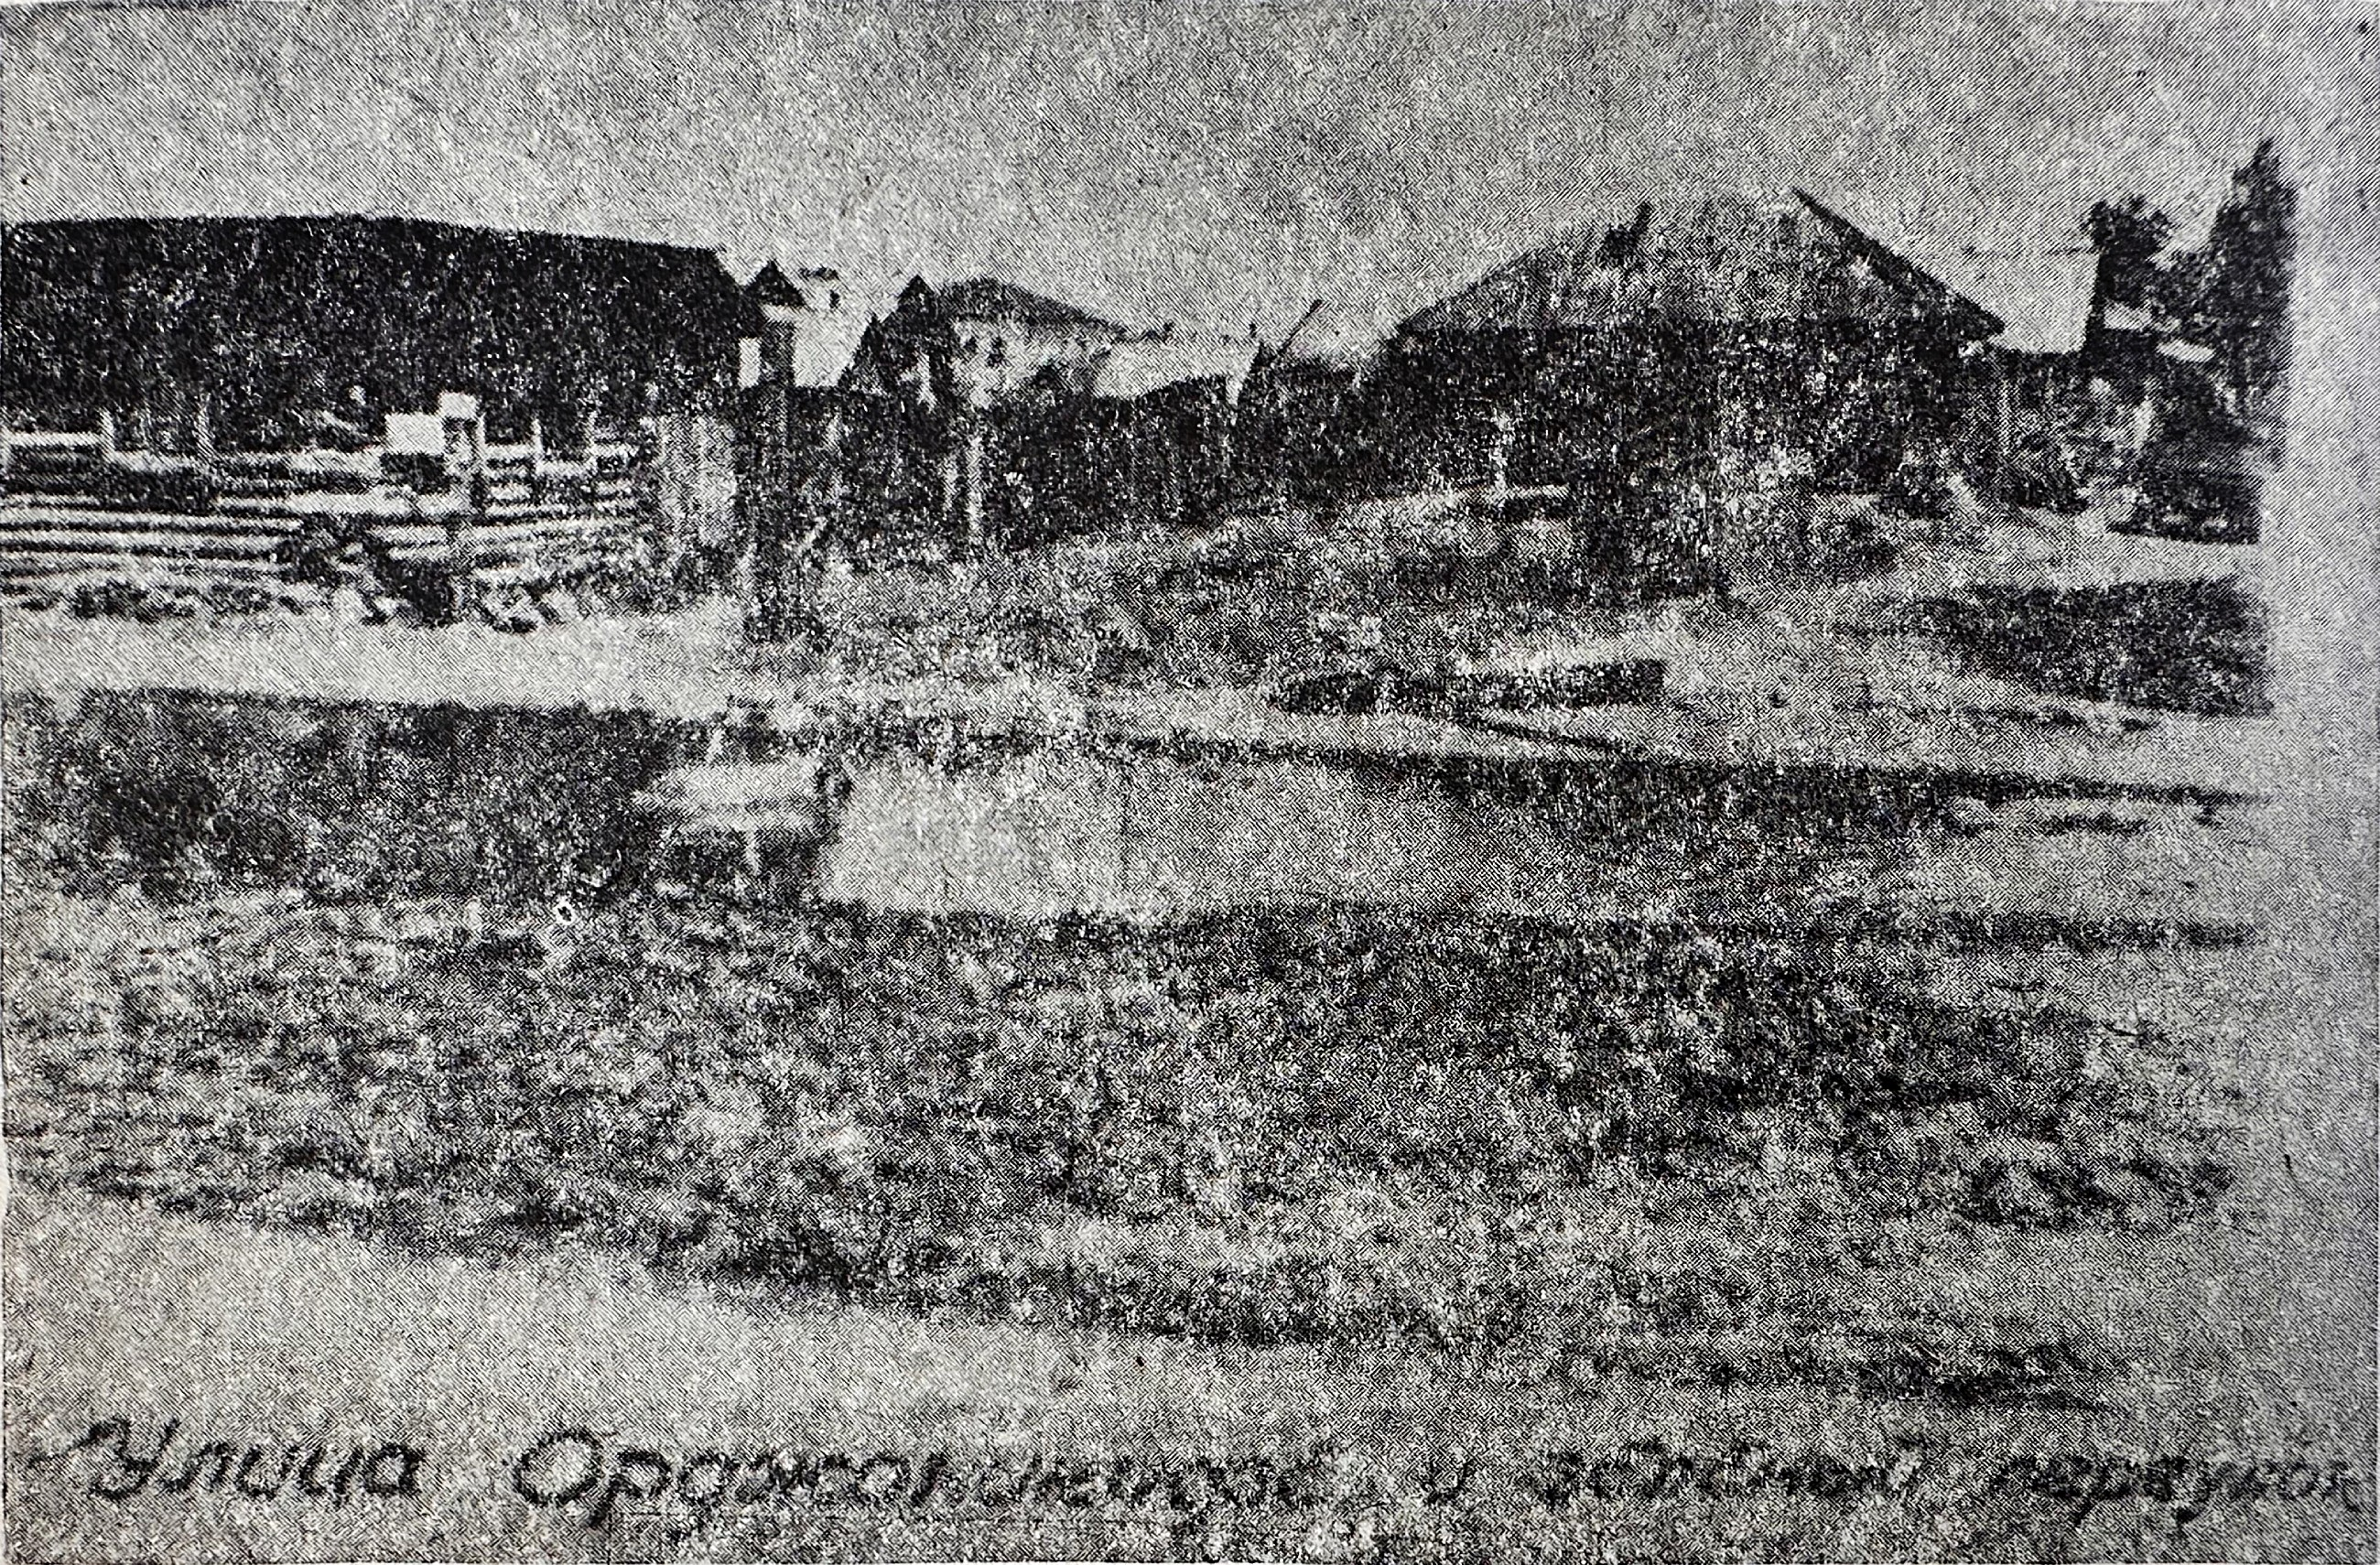
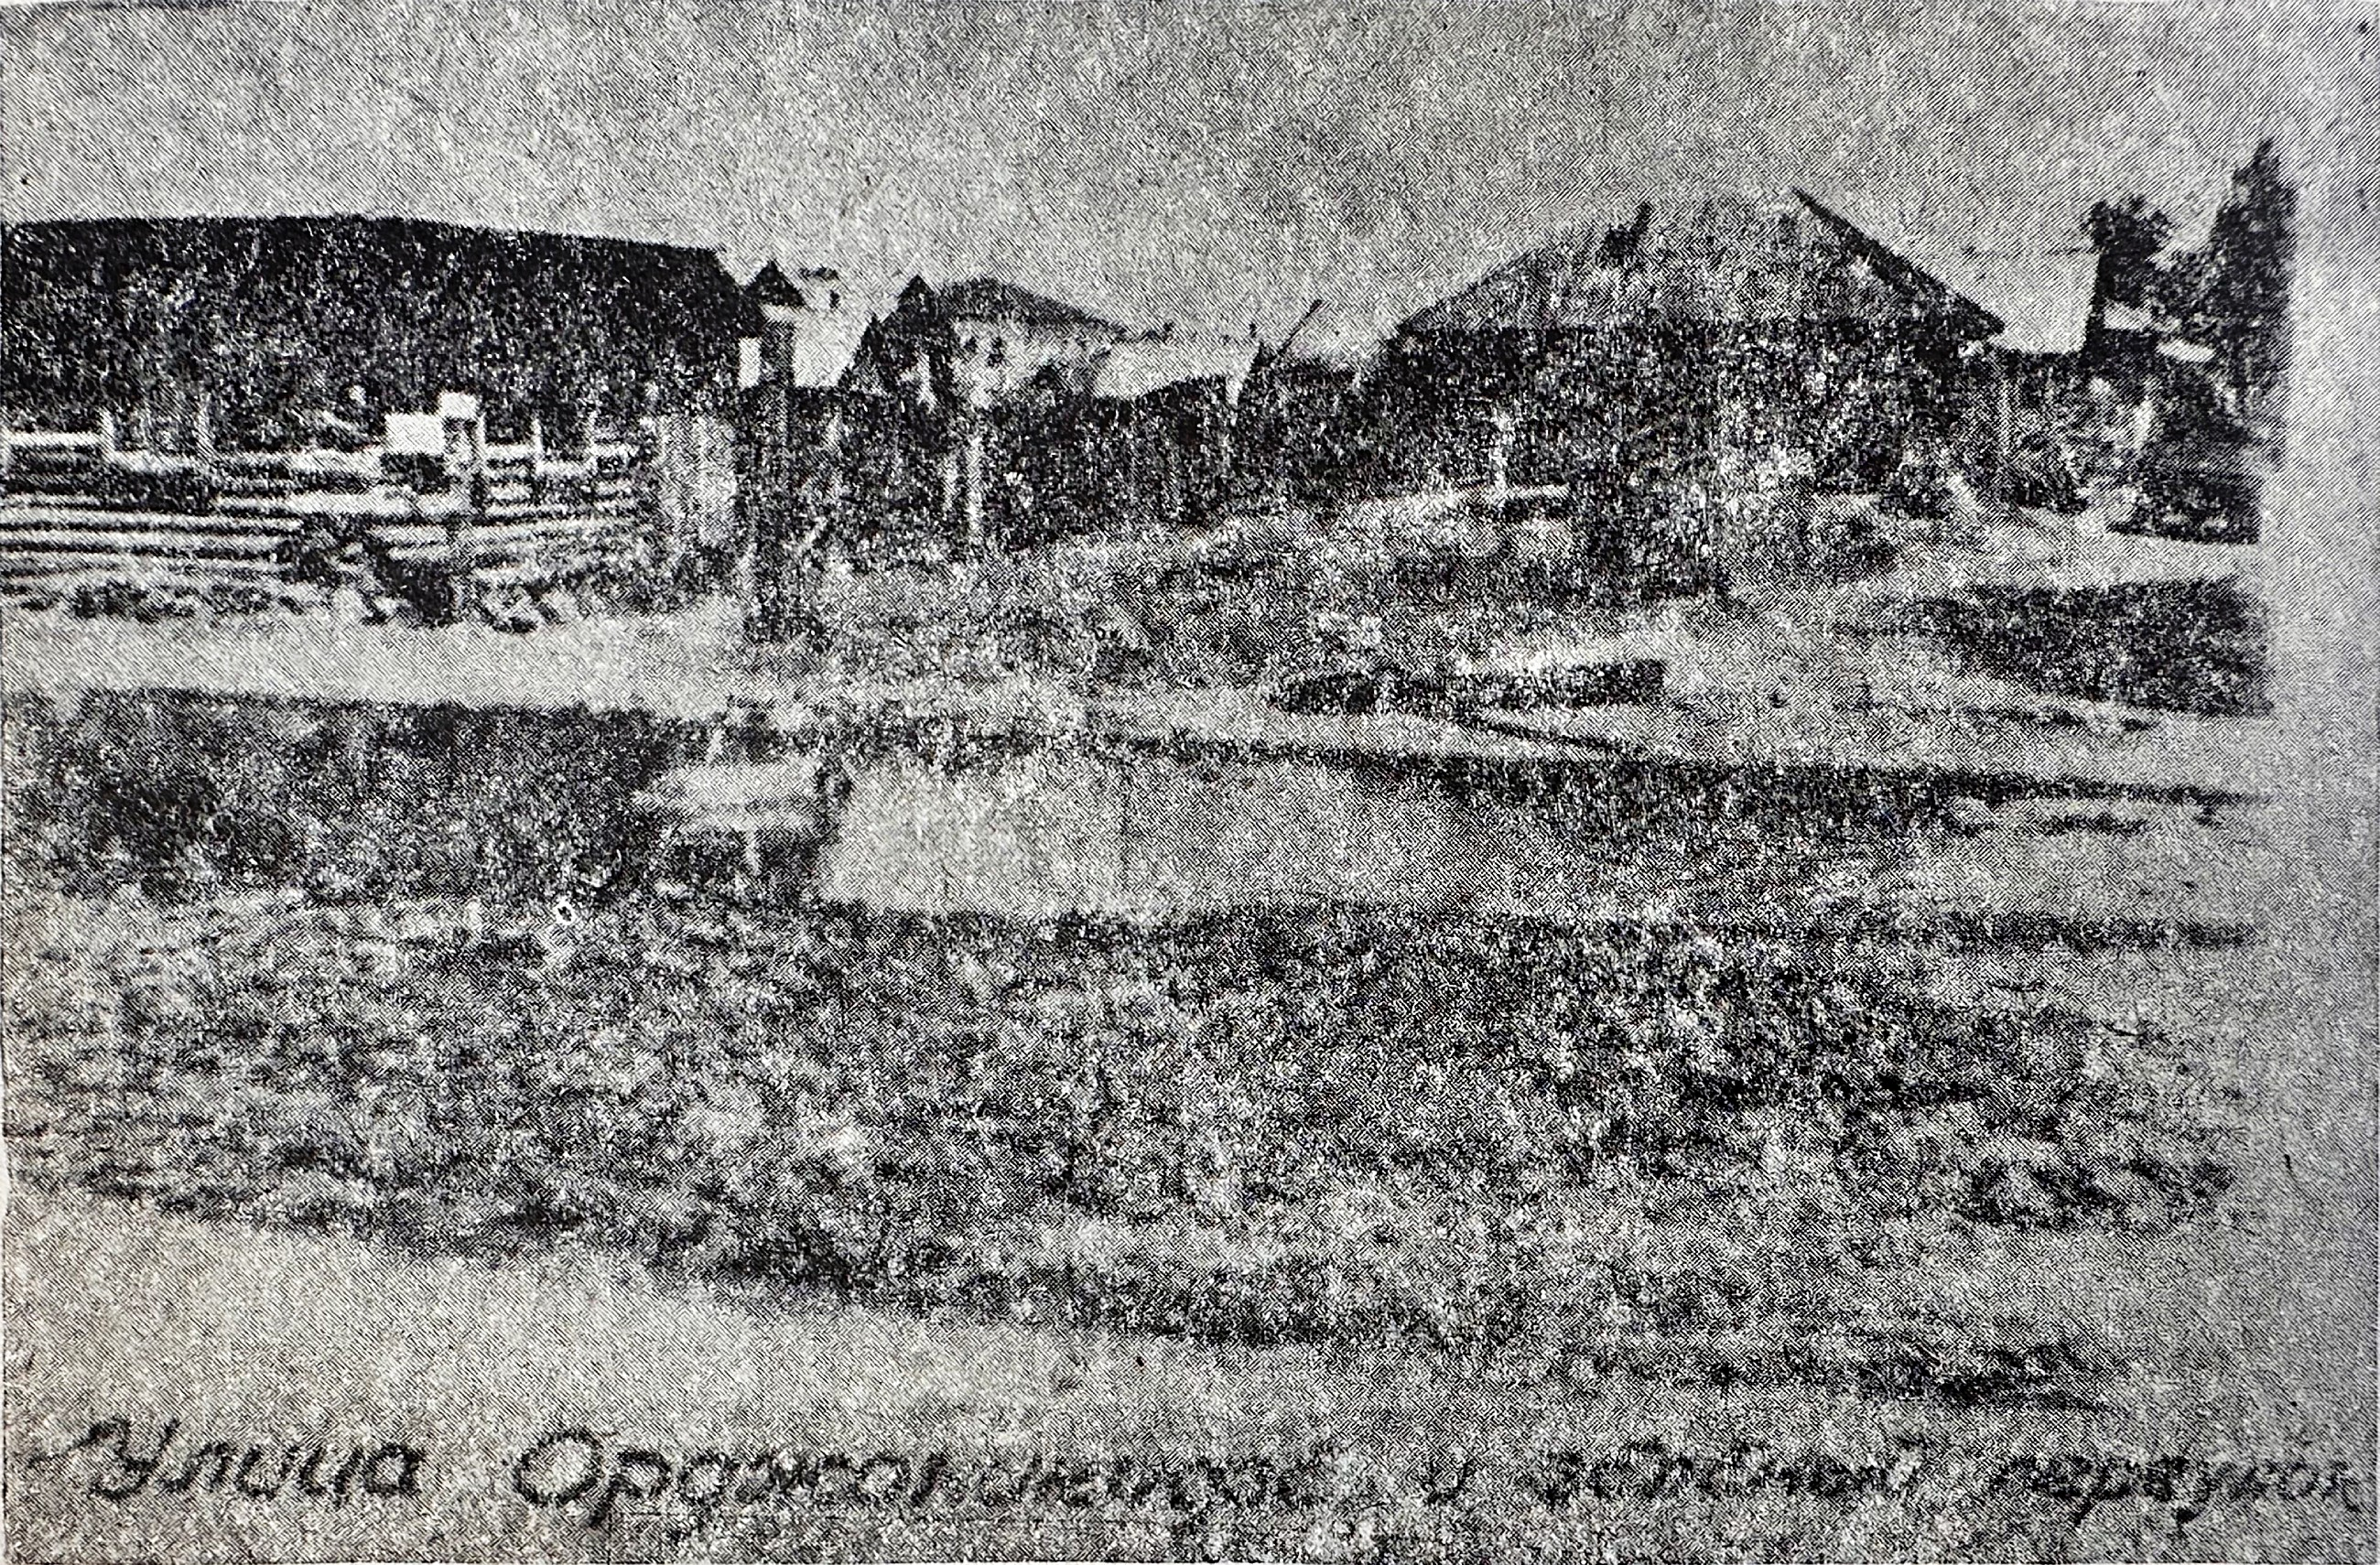
photo

Changed region(s): [[0.0, 0.155, 0.9658, 1.0], [0.1869, 0.4959, 0.2804, 0.5889]]

diff --git a/books/1990-Shtrihi-k-portretu-goroda/README.md b/books/1990-Shtrihi-k-portretu-goroda/README.md
@@ -426,7 +426,7 @@
 <figure>
   <p align="center">
     <a href="./img/1936-sennoy-pereulok.jpg">
-      <img width="650" height="228" alt="Сенной переулок. 1936 г." src="./img/1936-sennoy-pereulok.jpg"/>
+      <img width="650" height="428" alt="Сенной переулок. 1936 г." src="./img/1936-sennoy-pereulok.jpg"/>
     </a>
   </p>
   <figcaption><p align="center">Сенной переулок. <b>1936</b> г.</p></figcaption>